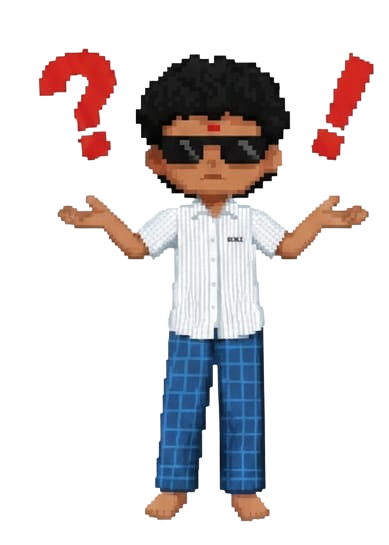
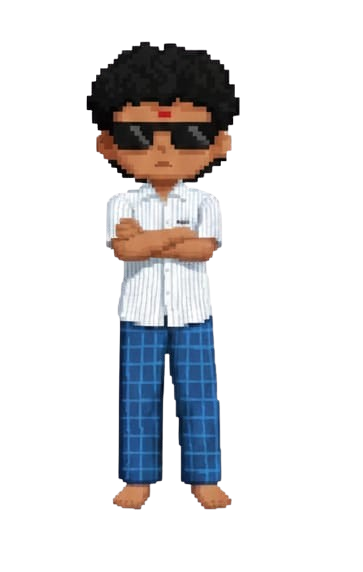
first commit

Changed region(s): [[0.0909, 0.0624, 0.9697, 0.967], [0.7879, 0.0936, 0.9697, 0.3119]]

diff --git a/index.html b/index.html
@@ -119,7 +119,7 @@
       <div class="avatar-container">
         <img src="frame1.png" class="avatar" alt="frame1">
         <img src="frame2.png" class="avatar" alt="frame2">
-        <img src="frame3.png" class="avatar" alt="frame3">
+
         <div class="bubble">Hi! I'm Pushkar</div>
       </div>
       <div class="greetings">
@@ -198,7 +198,7 @@
       index = (index + 1) % avatars.length;
     }
 
-    setInterval(animateAvatar, 200);
+    setInterval(animateAvatar, 500);
     animateAvatar();
 
     // Mobile menu toggle
